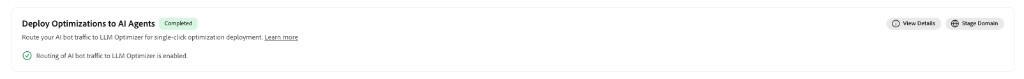
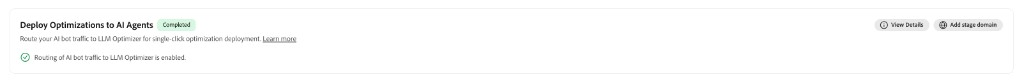
docs(oae): replace all screenshots with latest UI and update wording
Production flow (snippets.md):
- Show both pending UI variants (checkbox and +Enable buttons)
- Add Stage Domain input dialog screenshot to staging flow
- Refresh completed, production API key, and staging API key images

AEM managed CDN (aemcs-managed-cdn.md):
- Replace old checkbox/progress/tick flow with Enable optimization engine
- Use shared byocdn- assets instead of separate adobe-/prereq- images

Remove 4 unused old assets:
- prereq-deploy-checkbox.png, prereq-copy-api-key.png
- prereq-traffic-routing-progress.png, adobe-CDN-traffic-routed-tick.png

Made-with: Cursor

diff --git a/help/dashboards/optimize-at-edge/aemcs-managed-cdn.md b/help/dashboards/optimize-at-edge/aemcs-managed-cdn.md
@@ -12,19 +12,21 @@ This configuration routes agentic traffic (requests from AI bots and LLM user ag
 
 To start routing agentic traffic to Edge Optimize:
 
-1. Navigate to **Customer Configuration** and select the **CDN Configuration** tab.
+1. In LLM Optimizer, open **Customer configuration** and select the **CDN configuration** tab.
 
    ![Navigate to Customer Configuration](/help/assets/optimize-at-edge/prereq-customer-config-nav.png)
 
-2. Under **AI Traffic Routing to Deploy Optimizations**, tick the **Deploy Optimizations to AI Agents** checkbox. The Adobe team will handle the routing configuration on your behalf.
+2. Locate the **Deploy optimizations to AI agents** section. To activate the optimization engine, check the **Enable optimization engine** checkbox or select **+ Enable**.
 
-   ![Tick Deploy Optimizations to AI Agents](/help/assets/optimize-at-edge/prereq-deploy-checkbox.png)
+   ![Deploy optimizations to AI agents — pending](/help/assets/optimize-at-edge/byocdn-deploy-optimizations-pending.png)
 
-3. After enabling the checkbox, the status will show that the setup is in progress. The Adobe team will complete the routing configuration for you.
+3. In the confirmation dialog, select **Enable**. The Adobe team will handle the routing configuration on your behalf.
 
-   ![AI Traffic Routing setup in progress](/help/assets/optimize-at-edge/prereq-traffic-routing-progress.png)
+   ![Enable optimization engine confirmation dialog](/help/assets/optimize-at-edge/byocdn-enable-optimization-engine-dialog.png)
 
-   Once the routing is configured and active, the status will update to show a green checkmark indicating that routing is successfully enabled. No further action is required on your end.
+   Once the routing is configured and active, the status updates to **Completed** with a green checkmark confirming that routing is enabled. No further action is required on your end.
+
+   ![Deploy optimizations to AI agents — completed](/help/assets/optimize-at-edge/byocdn-CDN-traffic-routed-tick.png)
 
 Additionally, if you require any help with the above steps, reach out to your Adobe account team or `llmo-at-edge@adobe.com`.
 
@@ -125,8 +127,8 @@ curl -svo /dev/null https://staging.example.com/page.html \
 
 Replace `https://staging.example.com/page.html` with your real staging URL and path. A successful response includes the `x-edgeoptimize-request-id` header.
 
-The status of the traffic routing can also be checked in the LLM Optimizer UI. Navigate to **Customer configuration** and select the **CDN configuration** tab.
+The status of the traffic routing can also be checked in the LLM Optimizer UI. Navigate to **Customer configuration** and select the **CDN configuration** tab. When routing is active, the **Deploy optimizations to AI agents** section shows **Completed**.
 
-![AI Traffic Routing status with routing enabled](/help/assets/optimize-at-edge/adobe-CDN-traffic-routed-tick.png)
+![Deploy optimizations to AI agents — completed](/help/assets/optimize-at-edge/byocdn-CDN-traffic-routed-tick.png)
 
 {{return-to-overview}}

diff --git a/help/_includes/snippets.md b/help/_includes/snippets.md
@@ -14,11 +14,15 @@
 
    ![Deploy optimizations to AI agents with routing enabled](/help/assets/optimize-at-edge/byocdn-CDN-traffic-routed-tick.png)
 
-   Until your IT or CDN team finishes the CDN configuration, the status may show **Pending** and a message that setup is not complete. Depending on your interface, you may see **Enable optimization engine** on the card, or **+ Enable** with **Add stage domain** / **Stage domain**. You can open **View details** to copy the production API key before or after activation.
+   Until your IT or CDN team finishes the CDN configuration, the status shows **Pending**. Depending on your interface, you may see the **Enable optimization engine** checkbox on the card:
 
-   ![Deploy optimizations to AI agents with setup pending](/help/assets/optimize-at-edge/byocdn-deploy-optimizations-pending.png)
+   ![Deploy optimizations to AI agents — pending with Enable optimization engine checkbox](/help/assets/optimize-at-edge/byocdn-deploy-optimizations-pending.png)
 
-3. If the status is **Pending** and you need to activate the optimization engine first, select **Enable optimization engine** or **+ Enable**. In the **Enable optimization engine** dialog, read the message and select **Enable** to confirm.
+   Or you may see **+ Enable** and **Add stage domain** buttons:
+
+   ![Deploy optimizations to AI agents — pending with Enable and Add stage domain buttons](/help/assets/optimize-at-edge/byocdn-deploy-optimizations-pending-actions.png)
+
+3. To activate the optimization engine, check the **Enable optimization engine** checkbox or select **+ Enable**. In the confirmation dialog, select **Enable**.
 
    ![Enable optimization engine confirmation dialog](/help/assets/optimize-at-edge/byocdn-enable-optimization-engine-dialog.png)
 
@@ -46,7 +50,11 @@ Use a staging hostname when you want to test Optimize at Edge in a lower environ
 
 2. In the **Deploy optimizations to AI agents** section, select **Add stage domain** (or **Stage domain** if a staging domain is already configured).
 
-3. Enter the full staging URL, including `https://`, then confirm. When the workflow completes, copy the **API key** shown for the staging domain.
+3. In the **Stage Domain** dialog, enter the full staging URL including `https://` and select **Set Domain**.
+
+   ![Stage Domain input dialog](/help/assets/optimize-at-edge/byocdn-staging-domain-input.png)
+
+4. Confirm the domain in the next prompt. When the workflow completes, the **Stage Domains** dialog shows the configured domain and its **API key**. Select **Copy** to copy the staging API key.
 
    ![Staging domain API key](/help/assets/optimize-at-edge/byocdn-staging-domain-api-key.png)
 
